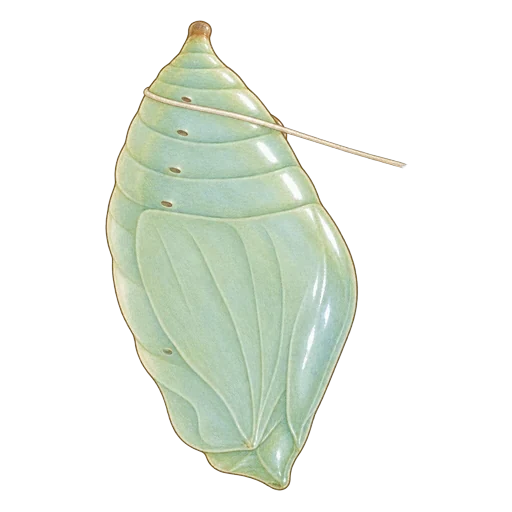
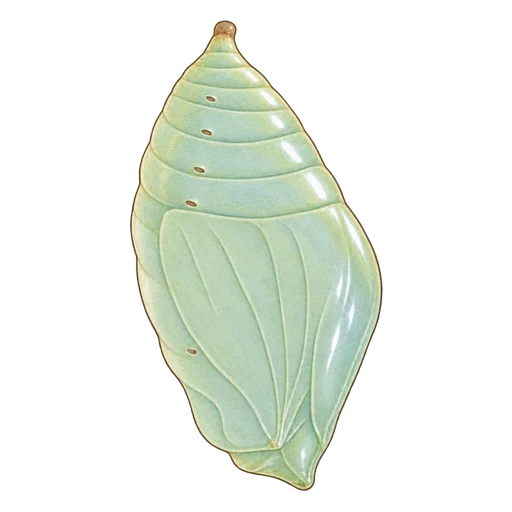
【デモ】小さい幼虫の絵、オオムラサキのさなぎの描き直し、幼虫・さなぎの動き

diff --git a/demo/index.html b/demo/index.html
@@ -854,7 +854,7 @@ const QS = new URLSearchParams(location.search);
 
 /* バージョンとこうしん情報：公開するたびに番号を上げる（ふだんは +0.0.1、大きなこうしんは +0.1） */
 const GAME_VER = '0.16.0';
-const BUILD = '20261108-1030';   // 公開するたびに tools/bump.sh が日時を書きこむ（version.json と同じ値）
+const BUILD = '20261108-1053';   // 公開するたびに tools/bump.sh が日時を書きこむ（version.json と同じ値）
 const CHANGELOG = [
   {v:'0.16.0', date:'2026-11-08', items:[
     '虫ずもうが、赤間の町の切りかぶの上でたたかうようになった！ 虫どうしが向かい合って、相手にぶつかっていくよ',
@@ -863,6 +863,7 @@ const CHANGELOG = [
     'ピンチになると、そだてた日々を思い出して、力がもどることがあるよ',
     'きりふきは、指をはなしたら、すぐに水が止まるようにした',
     'クワガタやキンカブト、チョウの幼虫が、絵になった！ バッタ・カマキリ・スズムシの子どもと、さなぎもぜんぶ絵になった。チョウのさなぎは、くきや葉にとまっているよ',
+    '幼虫やさなぎも動くようになった！ 脚や触角、頭を動かしたり、息をしたり、いもむしは体をのびちぢみさせたりするよ。アゲハのなかまの小さい幼虫は、鳥のフンそっくり',
   ]},
   {v:'0.15.0', date:'2026-11-07', items:[
     '道具のつかいかたがかわった！ 道具をえらんで、ケースの中をさわると、さわったところで使えるよ',
@@ -1670,14 +1671,14 @@ const BUG_IMG = {
   ookuwa: {adult:'ookuwa_adult_genki', larva:'ookuwa_larva_genki', pupa:'ookuwa_pupa'},
   kamakiri: {adult:'kamakiri_adult_genki', larva:'kamakiri_larva_genki'},
   monshiro: {adult:'monshiro_adult_genki', larva:'monshiro_larva_genki', pupa:'monshiro_pupa'},
-  ageha: {adult:'ageha_adult_genki', larva:'ageha_larva_genki', pupa:'ageha_pupa'},
-  karasu: {adult:'karasu_adult_genki', larva:'karasu_larva_genki', pupa:'karasu_pupa'},
+  ageha: {adult:'ageha_adult_genki', larva:'ageha_larva_genki', larva0:'ageha_larva0_genki', pupa:'ageha_pupa'},
+  karasu: {adult:'karasu_adult_genki', larva:'karasu_larva_genki', larva0:'karasu_larva0_genki', pupa:'karasu_pupa'},
   oomurasaki: {adult:'oomurasaki_adult_genki', larva:'oomurasaki_larva_genki', pupa:'oomurasaki_pupa'},
   genji: {adult:'genji_adult_genki'},
   abura: {adult:'abura_adult_genki'},
 };
 /* 1枚絵を切り分けて関節で動かす虫（tools/art_cut.py の出力）。座標は 512px の絵のまま。虫を足すときは tools/art_cut.py の RIGS に足して、出力をここへ */
-const ART_RIG = {"kabuto_larva":{"drop":0,"hop":0,"parts":{"tail":{"b":[276,45,215,286],"pv":[295,135],"kind":"tail"},"front":{"b":[26,267,249,158],"pv":[105,295],"kind":"front"},"leg1":{"b":[94,377,48,85],"pv":[122,390],"kind":"leg","ph":0,"parent":"front"},"leg2":{"b":[153,397,45,75],"pv":[175,408],"kind":"leg","ph":2,"parent":"front"},"leg3":{"b":[201,401,40,70],"pv":[220,412],"kind":"leg","ph":4,"parent":"front"},"head":{"b":[231,315,107,110],"pv":[250,372],"kind":"head","parent":"front"},"chew":{"b":[285,387,61,50],"pv":[298,405],"kind":"chew","parent":"head"}}},"kabuto_pupa":{"drop":0,"hop":0,"parts":{"tail":{"b":[20,162,138,222],"pv":[135,270],"kind":"tail"}}},"kokuwa_adult":{"drop":0,"hop":0,"parts":{"legF3":{"b":[20,280,61,45],"pv":[68,292],"kind":"leg","ph":3},"legF1":{"b":[317,293,64,46],"pv":[328,302],"kind":"leg","ph":3},"leg3":{"b":[42,287,136,61],"pv":[160,304],"kind":"leg","ph":0},"leg2":{"b":[159,287,109,63],"pv":[250,304],"kind":"leg","ph":3},"leg1":{"b":[267,285,105,66],"pv":[285,304],"kind":"leg","ph":0},"leg0":{"b":[335,281,155,65],"pv":[352,298],"kind":"leg","ph":3},"ant":{"b":[390,262,98,40],"pv":[400,272],"kind":"ant"},"antF":{"b":[408,161,83,54],"pv":[416,210],"kind":"ant","ph":1.3},"mandU":{"b":[400,207,79,46],"pv":[412,228],"kind":"mand","sgn":-1},"mandL":{"b":[400,247,79,36],"pv":[412,264],"kind":"mand","sgn":1}}},"suzumushi_adult":{"drop":0,"hop":0,"parts":{"leg3":{"b":[232,293,96,99],"pv":[312,308],"kind":"leg","ph":0},"leg2":{"b":[335,297,61,87],"pv":[355,308],"kind":"leg","ph":3},"leg1":{"b":[380,285,76,74],"pv":[392,296],"kind":"leg","ph":0},"ant":{"b":[62,46,381,222],"pv":[428,264],"kind":"ant","amp":0.45},"antF":{"b":[160,249,331,216],"pv":[430,266],"kind":"ant","ph":1.3,"amp":0.45}}},"shoryo_adult":{"drop":0,"hop":1,"parts":{"legF":{"b":[203,297,41,47],"pv":[232,302],"kind":"leg","ph":3},"leg3":{"b":[235,285,63,74],"pv":[285,293],"kind":"leg","ph":0},"leg2":{"b":[300,273,41,88],"pv":[325,283],"kind":"leg","ph":3},"leg1":{"b":[350,257,58,102],"pv":[368,272],"kind":"leg","ph":0},"ant":{"b":[443,153,48,38],"pv":[447,186],"kind":"ant"}}},"tonosama_adult":{"drop":0,"hop":1,"parts":{"leg4":{"b":[202,267,89,96],"pv":[275,280],"kind":"leg","ph":0},"leg3":{"b":[283,277,58,89],"pv":[325,288],"kind":"leg","ph":3},"legF":{"b":[400,278,59,68],"pv":[412,285],"kind":"leg","ph":3},"leg1":{"b":[360,265,67,97],"pv":[378,277],"kind":"leg","ph":0},"ant":{"b":[428,168,63,68],"pv":[437,225],"kind":"ant"}}},"kinkabuto_adult":{"drop":0,"hop":0,"parts":{"head":{"b":[347,103,144,224],"pv":[352,265],"kind":"head","amp":0.5},"ant":{"b":[378,269,67,31],"pv":[385,288],"kind":"ant","parent":"head"},"leg0":{"b":[20,353,85,55],"pv":[88,356],"kind":"leg","ph":3},"leg1":{"b":[99,353,62,49],"pv":[150,356],"kind":"leg","ph":0},"leg2":{"b":[168,329,85,79],"pv":[238,332],"kind":"leg","ph":3},"leg3":{"b":[257,325,85,76],"pv":[273,328],"kind":"leg","ph":0},"leg4":{"b":[287,320,147,87],"pv":[325,323],"kind":"leg","ph":3}}},"nokogiri_adult":{"drop":0,"hop":0,"parts":{"mandU":{"b":[342,162,139,71],"pv":[350,215],"kind":"mand","sgn":-1},"mandL":{"b":[341,219,150,78],"pv":[350,258],"kind":"mand","sgn":1},"ant":{"b":[290,176,40,45],"pv":[303,212],"kind":"ant"},"antN":{"b":[335,261,66,38],"pv":[340,272],"kind":"ant","ph":1.3},"leg0":{"b":[20,314,46,34],"pv":[55,316],"kind":"leg","ph":3},"leg1":{"b":[49,316,50,33],"pv":[87,319],"kind":"leg","ph":0},"leg2":{"b":[144,317,53,31],"pv":[186,320],"kind":"leg","ph":3},"leg3":{"b":[214,316,43,30],"pv":[221,319],"kind":"leg","ph":0},"leg4":{"b":[255,309,67,40],"pv":[271,312],"kind":"leg","ph":3},"leg5":{"b":[313,299,74,50],"pv":[325,302],"kind":"leg","ph":0}}},"hirata_adult":{"drop":0,"hop":0,"parts":{"mandU":{"b":[358,208,133,43],"pv":[365,232],"kind":"mand","sgn":-1},"mandL":{"b":[356,254,134,37],"pv":[362,268],"kind":"mand","sgn":1},"ant":{"b":[359,179,70,50],"pv":[368,218],"kind":"ant"},"antN":{"b":[352,272,58,39],"pv":[358,282],"kind":"ant","ph":1.3},"leg0":{"b":[20,293,47,33],"pv":[57,296],"kind":"leg","ph":3},"leg1":{"b":[41,294,53,39],"pv":[79,297],"kind":"leg","ph":0},"leg2":{"b":[89,294,92,32],"pv":[132,297],"kind":"leg","ph":3},"leg3":{"b":[159,294,51,39],"pv":[195,297],"kind":"leg","ph":0},"leg4":{"b":[261,301,39,25],"pv":[265,304],"kind":"leg","ph":3},"leg5":{"b":[298,307,64,25],"pv":[311,310],"kind":"leg","ph":0}}},"miyama_adult":{"drop":0,"hop":0,"parts":{"mandU":{"b":[346,183,140,63],"pv":[352,222],"kind":"mand","sgn":-1},"mandL":{"b":[346,237,145,40],"pv":[352,255],"kind":"mand","sgn":1},"ant":{"b":[345,136,74,78],"pv":[358,205],"kind":"ant"},"antN":{"b":[369,253,69,53],"pv":[378,262],"kind":"ant","ph":1.3},"leg0":{"b":[20,319,53,48],"pv":[63,322],"kind":"leg","ph":3},"leg1":{"b":[48,313,144,62],"pv":[155,316],"kind":"leg","ph":0},"leg2":{"b":[162,315,51,60],"pv":[203,318],"kind":"leg","ph":3},"leg3":{"b":[282,321,73,54],"pv":[288,324],"kind":"leg","ph":0},"leg4":{"b":[332,323,86,46],"pv":[341,326],"kind":"leg","ph":3}}},"ookuwa_adult":{"drop":0,"hop":0,"parts":{"mandU":{"b":[366,164,125,58],"pv":[375,195],"kind":"mand","sgn":-1},"mandL":{"b":[361,234,129,46],"pv":[368,255],"kind":"mand","sgn":1},"ant":{"b":[360,123,89,66],"pv":[372,178],"kind":"ant"},"antN":{"b":[355,256,95,64],"pv":[364,266],"kind":"ant","ph":1.3},"leg0":{"b":[20,315,86,71],"pv":[80,318],"kind":"leg","ph":3},"leg1":{"b":[90,320,62,53],"pv":[136,323],"kind":"leg","ph":0},"leg2":{"b":[158,297,87,92],"pv":[237,300],"kind":"leg","ph":3},"leg3":{"b":[292,327,79,60],"pv":[306,330],"kind":"leg","ph":0},"leg4":{"b":[344,327,74,47],"pv":[357,330],"kind":"leg","ph":3}}},"kamakiri_adult":{"drop":0,"hop":0,"parts":{"claw":{"b":[317,211,139,139],"pv":[362,222],"kind":"mand","sgn":1},"head":{"b":[373,190,45,48],"pv":[385,215],"kind":"head"},"ant":{"b":[392,128,92,76],"pv":[402,195],"kind":"ant","parent":"head"},"antN":{"b":[400,151,91,54],"pv":[408,195],"kind":"ant","ph":1.3,"parent":"head"},"leg0":{"b":[54,333,61,51],"pv":[107,336],"kind":"leg","ph":3},"leg1":{"b":[147,321,55,41],"pv":[190,324],"kind":"leg","ph":0},"leg2":{"b":[240,298,69,86],"pv":[278,301],"kind":"leg","ph":3},"leg3":{"b":[301,293,59,70],"pv":[306,296],"kind":"leg","ph":0}}},"monshiro_adult":{"drop":0,"hop":0,"parts":{"wing":{"b":[20,52,322,405],"pv":[320,345],"kind":"wing"},"ant":{"b":[362,206,113,122],"pv":[375,318],"kind":"ant"},"antN":{"b":[369,238,122,92],"pv":[380,318],"kind":"ant","ph":1.3},"leg0":{"b":[160,448,23,10],"pv":[170,451],"kind":"leg","ph":3},"leg1":{"b":[206,402,82,58],"pv":[246,405],"kind":"leg","ph":0},"leg2":{"b":[317,402,24,57],"pv":[327,405],"kind":"leg","ph":3},"leg3":{"b":[371,402,44,53],"pv":[376,405],"kind":"leg","ph":0}}},"ageha_adult":{"drop":0,"hop":0,"parts":{"wing":{"b":[20,36,349,418],"pv":[362,350],"kind":"wing"},"ant":{"b":[384,237,83,121],"pv":[398,348],"kind":"ant"},"antN":{"b":[390,262,101,97],"pv":[402,348],"kind":"ant","ph":1.3},"leg0":{"b":[140,448,40,24],"pv":[170,451],"kind":"leg","ph":3},"leg1":{"b":[221,431,53,43],"pv":[265,434],"kind":"leg","ph":0},"leg2":{"b":[266,425,43,44],"pv":[294,428],"kind":"leg","ph":3},"leg3":{"b":[295,425,40,50],"pv":[321,428],"kind":"leg","ph":0},"leg4":{"b":[355,425,21,42],"pv":[359,428],"kind":"leg","ph":3},"leg5":{"b":[362,425,45,50],"pv":[373,428],"kind":"leg","ph":0},"leg6":{"b":[401,425,37,44],"pv":[406,428],"kind":"leg","ph":3}}},"karasu_adult":{"drop":0,"hop":0,"parts":{"wing":{"b":[20,45,339,411],"pv":[350,350],"kind":"wing"},"ant":{"b":[377,238,89,117],"pv":[388,345],"kind":"ant"},"antN":{"b":[382,258,109,99],"pv":[392,345],"kind":"ant","ph":1.3},"leg0":{"b":[165,447,34,18],"pv":[189,450],"kind":"leg","ph":3},"leg1":{"b":[236,433,39,33],"pv":[268,436],"kind":"leg","ph":0},"leg2":{"b":[304,425,19,41],"pv":[316,428],"kind":"leg","ph":3},"leg3":{"b":[366,425,39,39],"pv":[371,428],"kind":"leg","ph":0},"leg4":{"b":[395,425,47,37],"pv":[400,428],"kind":"leg","ph":3}}},"oomurasaki_adult":{"drop":0,"hop":0,"parts":{"wing":{"b":[20,60,353,375],"pv":[335,335],"kind":"wing"},"ant":{"b":[369,205,91,133],"pv":[382,328],"kind":"ant"},"antN":{"b":[379,244,112,96],"pv":[388,328],"kind":"ant","ph":1.3},"leg0":{"b":[168,423,42,29],"pv":[199,426],"kind":"leg","ph":3},"leg1":{"b":[246,409,27,43],"pv":[262,412],"kind":"leg","ph":0},"leg2":{"b":[306,409,20,25],"pv":[308,412],"kind":"leg","ph":3},"leg3":{"b":[335,409,39,36],"pv":[342,412],"kind":"leg","ph":0},"leg4":{"b":[370,409,25,16],"pv":[375,412],"kind":"leg","ph":3}}}};
+const ART_RIG = {"kabuto_larva":{"drop":0,"hop":0,"parts":{"tail":{"b":[276,45,215,286],"pv":[295,135],"kind":"tail"},"front":{"b":[26,267,249,158],"pv":[105,295],"kind":"front"},"leg1":{"b":[94,377,48,85],"pv":[122,390],"kind":"leg","ph":0,"parent":"front"},"leg2":{"b":[153,397,45,75],"pv":[175,408],"kind":"leg","ph":2,"parent":"front"},"leg3":{"b":[201,401,40,70],"pv":[220,412],"kind":"leg","ph":4,"parent":"front"},"head":{"b":[231,315,107,110],"pv":[250,372],"kind":"head","parent":"front"},"chew":{"b":[285,387,61,50],"pv":[298,405],"kind":"chew","parent":"head"}}},"kabuto_pupa":{"drop":0,"hop":0,"parts":{"tail":{"b":[20,162,138,222],"pv":[135,270],"kind":"tail"}}},"kokuwa_adult":{"drop":0,"hop":0,"parts":{"legF3":{"b":[20,280,61,45],"pv":[68,292],"kind":"leg","ph":3},"legF1":{"b":[317,293,64,46],"pv":[328,302],"kind":"leg","ph":3},"leg3":{"b":[42,287,136,61],"pv":[160,304],"kind":"leg","ph":0},"leg2":{"b":[159,287,109,63],"pv":[250,304],"kind":"leg","ph":3},"leg1":{"b":[267,285,105,66],"pv":[285,304],"kind":"leg","ph":0},"leg0":{"b":[335,281,155,65],"pv":[352,298],"kind":"leg","ph":3},"ant":{"b":[390,262,98,40],"pv":[400,272],"kind":"ant"},"antF":{"b":[408,161,83,54],"pv":[416,210],"kind":"ant","ph":1.3},"mandU":{"b":[400,207,79,46],"pv":[412,228],"kind":"mand","sgn":-1},"mandL":{"b":[400,247,79,36],"pv":[412,264],"kind":"mand","sgn":1}}},"suzumushi_adult":{"drop":0,"hop":0,"parts":{"leg3":{"b":[232,293,96,99],"pv":[312,308],"kind":"leg","ph":0},"leg2":{"b":[335,297,61,87],"pv":[355,308],"kind":"leg","ph":3},"leg1":{"b":[380,285,76,74],"pv":[392,296],"kind":"leg","ph":0},"ant":{"b":[62,46,381,222],"pv":[428,264],"kind":"ant","amp":0.45},"antF":{"b":[160,249,331,216],"pv":[430,266],"kind":"ant","ph":1.3,"amp":0.45}}},"shoryo_adult":{"drop":0,"hop":1,"parts":{"legF":{"b":[203,297,41,47],"pv":[232,302],"kind":"leg","ph":3},"leg3":{"b":[235,285,63,74],"pv":[285,293],"kind":"leg","ph":0},"leg2":{"b":[300,273,41,88],"pv":[325,283],"kind":"leg","ph":3},"leg1":{"b":[350,257,58,102],"pv":[368,272],"kind":"leg","ph":0},"ant":{"b":[443,153,48,38],"pv":[447,186],"kind":"ant"}}},"tonosama_adult":{"drop":0,"hop":1,"parts":{"leg4":{"b":[202,267,89,96],"pv":[275,280],"kind":"leg","ph":0},"leg3":{"b":[283,277,58,89],"pv":[325,288],"kind":"leg","ph":3},"legF":{"b":[400,278,59,68],"pv":[412,285],"kind":"leg","ph":3},"leg1":{"b":[360,265,67,97],"pv":[378,277],"kind":"leg","ph":0},"ant":{"b":[428,168,63,68],"pv":[437,225],"kind":"ant"}}},"kinkabuto_adult":{"drop":0,"hop":0,"parts":{"head":{"b":[347,103,144,224],"pv":[352,265],"kind":"head","amp":0.5},"ant":{"b":[378,269,67,31],"pv":[385,288],"kind":"ant","parent":"head"},"leg0":{"b":[20,353,85,55],"pv":[88,356],"kind":"leg","ph":3},"leg1":{"b":[99,353,62,49],"pv":[150,356],"kind":"leg","ph":0},"leg2":{"b":[168,329,85,79],"pv":[238,332],"kind":"leg","ph":3},"leg3":{"b":[257,325,85,76],"pv":[273,328],"kind":"leg","ph":0},"leg4":{"b":[287,320,147,87],"pv":[325,323],"kind":"leg","ph":3}}},"nokogiri_adult":{"drop":0,"hop":0,"parts":{"mandU":{"b":[342,162,139,71],"pv":[350,215],"kind":"mand","sgn":-1},"mandL":{"b":[341,219,150,78],"pv":[350,258],"kind":"mand","sgn":1},"ant":{"b":[290,176,40,45],"pv":[303,212],"kind":"ant"},"antN":{"b":[335,261,66,38],"pv":[340,272],"kind":"ant","ph":1.3},"leg0":{"b":[20,314,46,34],"pv":[55,316],"kind":"leg","ph":3},"leg1":{"b":[49,316,50,33],"pv":[87,319],"kind":"leg","ph":0},"leg2":{"b":[144,317,53,31],"pv":[186,320],"kind":"leg","ph":3},"leg3":{"b":[214,316,43,30],"pv":[221,319],"kind":"leg","ph":0},"leg4":{"b":[255,309,67,40],"pv":[271,312],"kind":"leg","ph":3},"leg5":{"b":[313,299,74,50],"pv":[325,302],"kind":"leg","ph":0}}},"hirata_adult":{"drop":0,"hop":0,"parts":{"mandU":{"b":[358,208,133,43],"pv":[365,232],"kind":"mand","sgn":-1},"mandL":{"b":[356,254,134,37],"pv":[362,268],"kind":"mand","sgn":1},"ant":{"b":[359,179,70,50],"pv":[368,218],"kind":"ant"},"antN":{"b":[352,272,58,39],"pv":[358,282],"kind":"ant","ph":1.3},"leg0":{"b":[20,293,47,33],"pv":[57,296],"kind":"leg","ph":3},"leg1":{"b":[41,294,53,39],"pv":[79,297],"kind":"leg","ph":0},"leg2":{"b":[89,294,92,32],"pv":[132,297],"kind":"leg","ph":3},"leg3":{"b":[159,294,51,39],"pv":[195,297],"kind":"leg","ph":0},"leg4":{"b":[261,301,39,25],"pv":[265,304],"kind":"leg","ph":3},"leg5":{"b":[298,307,64,25],"pv":[311,310],"kind":"leg","ph":0}}},"miyama_adult":{"drop":0,"hop":0,"parts":{"mandU":{"b":[346,183,140,63],"pv":[352,222],"kind":"mand","sgn":-1},"mandL":{"b":[346,237,145,40],"pv":[352,255],"kind":"mand","sgn":1},"ant":{"b":[345,136,74,78],"pv":[358,205],"kind":"ant"},"antN":{"b":[369,253,69,53],"pv":[378,262],"kind":"ant","ph":1.3},"leg0":{"b":[20,319,53,48],"pv":[63,322],"kind":"leg","ph":3},"leg1":{"b":[48,313,144,62],"pv":[155,316],"kind":"leg","ph":0},"leg2":{"b":[162,315,51,60],"pv":[203,318],"kind":"leg","ph":3},"leg3":{"b":[282,321,73,54],"pv":[288,324],"kind":"leg","ph":0},"leg4":{"b":[332,323,86,46],"pv":[341,326],"kind":"leg","ph":3}}},"ookuwa_adult":{"drop":0,"hop":0,"parts":{"mandU":{"b":[366,164,125,58],"pv":[375,195],"kind":"mand","sgn":-1},"mandL":{"b":[361,234,129,46],"pv":[368,255],"kind":"mand","sgn":1},"ant":{"b":[360,123,89,66],"pv":[372,178],"kind":"ant"},"antN":{"b":[355,256,95,64],"pv":[364,266],"kind":"ant","ph":1.3},"leg0":{"b":[20,315,86,71],"pv":[80,318],"kind":"leg","ph":3},"leg1":{"b":[90,320,62,53],"pv":[136,323],"kind":"leg","ph":0},"leg2":{"b":[158,297,87,92],"pv":[237,300],"kind":"leg","ph":3},"leg3":{"b":[292,327,79,60],"pv":[306,330],"kind":"leg","ph":0},"leg4":{"b":[344,327,74,47],"pv":[357,330],"kind":"leg","ph":3}}},"kamakiri_adult":{"drop":0,"hop":0,"parts":{"claw":{"b":[317,211,139,139],"pv":[362,222],"kind":"mand","sgn":1},"head":{"b":[373,190,45,48],"pv":[385,215],"kind":"head"},"ant":{"b":[392,128,92,76],"pv":[402,195],"kind":"ant","parent":"head"},"antN":{"b":[400,151,91,54],"pv":[408,195],"kind":"ant","ph":1.3,"parent":"head"},"leg0":{"b":[54,333,61,51],"pv":[107,336],"kind":"leg","ph":3},"leg1":{"b":[147,321,55,41],"pv":[190,324],"kind":"leg","ph":0},"leg2":{"b":[240,298,69,86],"pv":[278,301],"kind":"leg","ph":3},"leg3":{"b":[301,293,59,70],"pv":[306,296],"kind":"leg","ph":0}}},"monshiro_adult":{"drop":0,"hop":0,"parts":{"wing":{"b":[20,52,322,405],"pv":[320,345],"kind":"wing"},"ant":{"b":[362,206,113,122],"pv":[375,318],"kind":"ant"},"antN":{"b":[369,238,122,92],"pv":[380,318],"kind":"ant","ph":1.3},"leg0":{"b":[160,448,23,10],"pv":[170,451],"kind":"leg","ph":3},"leg1":{"b":[206,402,82,58],"pv":[246,405],"kind":"leg","ph":0},"leg2":{"b":[317,402,24,57],"pv":[327,405],"kind":"leg","ph":3},"leg3":{"b":[371,402,44,53],"pv":[376,405],"kind":"leg","ph":0}}},"ageha_adult":{"drop":0,"hop":0,"parts":{"wing":{"b":[20,36,349,418],"pv":[362,350],"kind":"wing"},"ant":{"b":[384,237,83,121],"pv":[398,348],"kind":"ant"},"antN":{"b":[390,262,101,97],"pv":[402,348],"kind":"ant","ph":1.3},"leg0":{"b":[140,448,40,24],"pv":[170,451],"kind":"leg","ph":3},"leg1":{"b":[221,431,53,43],"pv":[265,434],"kind":"leg","ph":0},"leg2":{"b":[266,425,43,44],"pv":[294,428],"kind":"leg","ph":3},"leg3":{"b":[295,425,40,50],"pv":[321,428],"kind":"leg","ph":0},"leg4":{"b":[355,425,21,42],"pv":[359,428],"kind":"leg","ph":3},"leg5":{"b":[362,425,45,50],"pv":[373,428],"kind":"leg","ph":0},"leg6":{"b":[401,425,37,44],"pv":[406,428],"kind":"leg","ph":3}}},"karasu_adult":{"drop":0,"hop":0,"parts":{"wing":{"b":[20,45,339,411],"pv":[350,350],"kind":"wing"},"ant":{"b":[377,238,89,117],"pv":[388,345],"kind":"ant"},"antN":{"b":[382,258,109,99],"pv":[392,345],"kind":"ant","ph":1.3},"leg0":{"b":[165,447,34,18],"pv":[189,450],"kind":"leg","ph":3},"leg1":{"b":[236,433,39,33],"pv":[268,436],"kind":"leg","ph":0},"leg2":{"b":[304,425,19,41],"pv":[316,428],"kind":"leg","ph":3},"leg3":{"b":[366,425,39,39],"pv":[371,428],"kind":"leg","ph":0},"leg4":{"b":[395,425,47,37],"pv":[400,428],"kind":"leg","ph":3}}},"oomurasaki_adult":{"drop":0,"hop":0,"parts":{"wing":{"b":[20,60,353,375],"pv":[335,335],"kind":"wing"},"ant":{"b":[369,205,91,133],"pv":[382,328],"kind":"ant"},"antN":{"b":[379,244,112,96],"pv":[388,328],"kind":"ant","ph":1.3},"leg0":{"b":[168,423,42,29],"pv":[199,426],"kind":"leg","ph":3},"leg1":{"b":[246,409,27,43],"pv":[262,412],"kind":"leg","ph":0},"leg2":{"b":[306,409,20,25],"pv":[308,412],"kind":"leg","ph":3},"leg3":{"b":[335,409,39,36],"pv":[342,412],"kind":"leg","ph":0},"leg4":{"b":[370,409,25,16],"pv":[375,412],"kind":"leg","ph":3}}},"kinkabuto_larva":{"drop":0,"hop":0,"wob":1,"parts":{"head":{"b":[357,259,134,153],"pv":[372,330],"kind":"head","amp":0.6},"leg0":{"b":[250,292,46,56],"pv":[277,295],"kind":"leg","ph":3},"leg1":{"b":[287,332,28,65],"pv":[290,334],"kind":"leg","ph":0},"leg2":{"b":[333,349,34,73],"pv":[349,352],"kind":"leg","ph":3}}},"kokuwa_larva":{"drop":0,"hop":0,"wob":1,"parts":{"head":{"b":[355,289,136,152],"pv":[372,350],"kind":"head","amp":0.6},"leg0":{"b":[175,409,49,52],"pv":[209,412],"kind":"leg","ph":3},"leg1":{"b":[249,409,35,70],"pv":[268,412],"kind":"leg","ph":0},"leg2":{"b":[313,409,45,69],"pv":[323,412],"kind":"leg","ph":3}}},"nokogiri_larva":{"drop":0,"hop":0,"wob":1,"parts":{"head":{"b":[255,311,125,121],"pv":[272,360],"kind":"head","amp":0.6},"leg0":{"b":[106,417,30,46],"pv":[117,420],"kind":"leg","ph":3},"leg1":{"b":[166,417,36,55],"pv":[182,420],"kind":"leg","ph":0},"leg2":{"b":[201,417,61,51],"pv":[229,420],"kind":"leg","ph":3}}},"hirata_larva":{"drop":0,"hop":0,"wob":1,"parts":{"head":{"b":[375,232,116,137],"pv":[388,290],"kind":"head","amp":0.6},"leg0":{"b":[226,269,36,54],"pv":[244,272],"kind":"leg","ph":3},"leg1":{"b":[267,285,42,55],"pv":[286,286],"kind":"leg","ph":0},"leg2":{"b":[319,301,42,79],"pv":[338,304],"kind":"leg","ph":3}}},"miyama_larva":{"drop":0,"hop":0,"wob":1,"parts":{"head":{"b":[382,252,109,133],"pv":[395,310],"kind":"head","amp":0.6},"leg0":{"b":[252,297,43,22],"pv":[272,300],"kind":"leg","ph":3},"leg1":{"b":[287,331,33,42],"pv":[303,333],"kind":"leg","ph":0},"leg2":{"b":[344,335,29,51],"pv":[359,338],"kind":"leg","ph":3}}},"ookuwa_larva":{"drop":0,"hop":0,"wob":1,"parts":{"head":{"b":[377,292,114,127],"pv":[390,350],"kind":"head","amp":0.6},"leg0":{"b":[237,327,45,17],"pv":[257,330],"kind":"leg","ph":3},"leg1":{"b":[256,353,27,65],"pv":[276,354],"kind":"leg","ph":0},"leg2":{"b":[311,371,40,60],"pv":[334,374],"kind":"leg","ph":3},"leg3":{"b":[347,371,35,16],"pv":[364,374],"kind":"leg","ph":0}}},"shoryo_larva":{"drop":0,"hop":1,"parts":{"ant":{"b":[390,112,80,130],"pv":[400,235],"kind":"ant"},"antN":{"b":[395,144,96,98],"pv":[405,238],"kind":"ant","ph":1.3},"leg0":{"b":[20,335,58,61],"pv":[69,338],"kind":"leg","ph":3},"leg1":{"b":[66,335,108,48],"pv":[129,338],"kind":"leg","ph":0},"leg2":{"b":[165,334,52,63],"pv":[210,337],"kind":"leg","ph":3},"leg3":{"b":[208,334,35,50],"pv":[236,337],"kind":"leg","ph":0},"leg4":{"b":[265,334,29,65],"pv":[271,337],"kind":"leg","ph":3},"leg5":{"b":[322,334,58,60],"pv":[334,336],"kind":"leg","ph":0}}},"tonosama_larva":{"drop":0,"hop":1,"parts":{"ant":{"b":[396,144,70,79],"pv":[405,212],"kind":"ant"},"antN":{"b":[402,171,89,54],"pv":[410,215],"kind":"ant","ph":1.3},"leg0":{"b":[20,311,68,51],"pv":[77,314],"kind":"leg","ph":3},"leg1":{"b":[105,311,57,43],"pv":[150,314],"kind":"leg","ph":0},"leg2":{"b":[170,310,55,57],"pv":[216,313],"kind":"leg","ph":3},"leg3":{"b":[256,310,37,44],"pv":[270,313],"kind":"leg","ph":0},"leg4":{"b":[353,310,33,48],"pv":[367,313],"kind":"leg","ph":3},"leg5":{"b":[382,310,61,55],"pv":[389,313],"kind":"leg","ph":0}}},"kamakiri_larva":{"drop":0,"hop":0,"parts":{"ant":{"b":[399,74,76,107],"pv":[410,175],"kind":"ant"},"antN":{"b":[302,116,103,68],"pv":[398,175],"kind":"ant","ph":1.3},"leg0":{"b":[22,331,87,103],"pv":[102,334],"kind":"leg","ph":3},"leg1":{"b":[94,331,71,77],"pv":[154,334],"kind":"leg","ph":0},"leg2":{"b":[224,331,32,109],"pv":[236,334],"kind":"leg","ph":3},"leg3":{"b":[304,331,52,71],"pv":[308,334],"kind":"leg","ph":0},"leg4":{"b":[347,331,76,91],"pv":[352,334],"kind":"leg","ph":3}}},"suzumushi_larva":{"drop":0,"hop":0,"parts":{"ant":{"b":[92,59,331,197],"pv":[410,250],"kind":"ant","amp":0.45},"antN":{"b":[207,235,284,217],"pv":[418,262],"kind":"ant","ph":1.3,"amp":0.45},"leg0":{"b":[59,329,66,35],"pv":[113,332],"kind":"leg","ph":3},"leg1":{"b":[178,329,46,39],"pv":[213,332],"kind":"leg","ph":0},"leg2":{"b":[308,328,43,41],"pv":[317,331],"kind":"leg","ph":3},"leg3":{"b":[384,328,49,36],"pv":[392,331],"kind":"leg","ph":0}}},"monshiro_larva":{"drop":0,"hop":0,"inch":1,"parts":{}},"ageha_larva":{"drop":0,"hop":0,"inch":1,"parts":{}},"karasu_larva":{"drop":0,"hop":0,"inch":1,"parts":{}},"oomurasaki_larva":{"drop":0,"hop":0,"inch":1,"parts":{}},"ageha_larva0":{"drop":0,"hop":0,"inch":1,"parts":{}},"karasu_larva0":{"drop":0,"hop":0,"inch":1,"parts":{}},"kinkabuto_pupa":{"drop":0,"hop":0,"parts":{}},"kokuwa_pupa":{"drop":0,"hop":0,"parts":{}},"nokogiri_pupa":{"drop":0,"hop":0,"parts":{}},"hirata_pupa":{"drop":0,"hop":0,"parts":{}},"miyama_pupa":{"drop":0,"hop":0,"parts":{}},"ookuwa_pupa":{"drop":0,"hop":0,"parts":{}},"monshiro_pupa":{"drop":0,"hop":0,"parts":{}},"ageha_pupa":{"drop":0,"hop":0,"parts":{}},"karasu_pupa":{"drop":0,"hop":0,"parts":{}},"oomurasaki_pupa":{"drop":0,"hop":0,"parts":{}}};
 function artSVG(key){
   const R = ART_RIG[key], dir = `img/bugs/parts/${key}/`, kids = {};
   Object.entries(R.parts).forEach(([k, P])=> (kids[P.parent || ''] = kids[P.parent || ''] || []).push(k));
@@ -1689,7 +1690,7 @@ function artSVG(key){
 function artRun(el, key, ctl={}){
   const R = ART_RIG[key], g = {}; el.querySelectorAll('[data-a]').forEach(n=> g[n.dataset.a] = n);
   const parts = Object.entries(R.parts).map(([k, P])=> ({k, P, n:g[k], a:0, to:0, t:0}));
-  const isPupa = key.endsWith('_pupa'), isLarva = key.endsWith('_larva');
+  const isPupa = key.endsWith('_pupa'), isLarva = /_larva0?$/.test(key), still = !Object.values(R.parts).some(P=> P.kind === 'tail' || P.kind === 'front');   // still：体を曲げる部品がない虫は、さわると体ごとよじる
   Object.assign(ctl, {mood:ctl.mood || 'genki', act:null, actT:0, nextHop:performance.now() + 4000 + Math.random()*6000});
   ctl.start = (a, t=performance.now())=>{ ctl.act = R.hop ? 'hop' : a; ctl.actT = t; };
   const ease = t=> t < 0 ? 0 : t > 1 ? 1 : t*t*(3 - 2*t), rot = (n, d, [x, y])=> n.setAttribute('transform', `rotate(${d.toFixed(2)} ${x} ${y})`);
@@ -1715,6 +1716,7 @@ function artRun(el, key, ctl={}){
     let sx = 1, tilt = 0;
     if(R.inch && !sleep){ const w = Math.sin(sec*Math.PI*2/3.4); sx = 1 + w*.035; sy *= 1 - w*.025; }   // いもむし：のびちぢみ
     if(R.wob && !sleep) tilt = Math.sin(sec*Math.PI*2/4.6)*1.6;   // 地面の下の幼虫：ゆっくり体をゆする
+    if(still && ctl.act === 'threat') tilt += wig*(isPupa ? 5 : 3);
     g.root.setAttribute('transform', `translate(256 ${410 + y}) rotate(${tilt.toFixed(2)}) scale(${sx.toFixed(4)} ${sy.toFixed(4)}) translate(-256 -410)`);
     g.base.setAttribute('transform', ctl.sing && (sec % 1.7) < 1.15 ? `rotate(${(Math.sin(sec*48)*.5).toFixed(2)} 400 270)` : '');   // 鳴くとき、はねをふるわせる
     for(const q of parts){
@@ -1744,9 +1746,10 @@ function artRun(el, key, ctl={}){
 function svgBug(id, stage, o={}){
   const b = BUGS[id], cls = ['bug', o.rest ? 'rest' : '', o.sleep ? 'sleep' : '', o.cls||''].join(' ');
   let inner = '';
-  const img = (BUG_IMG[id] || {})[stage];
+  const young = stage === 'larva' && o.instar === 0 && (BUG_IMG[id] || {}).larva0, ak = young ? 'larva0' : stage;   // アゲハのなかまの小さい幼虫は、鳥のフンのような絵
+  const img = (BUG_IMG[id] || {})[ak];
   if(o.rig && stage === 'adult' && BUG_PARTS[id]) inner = `<g class="rig" transform="${rigFit(id)}">${rigSVG(id)}</g>`;   // ケースの中は、部品の絵で組み立てて動かす
-  else if(o.rig && ART_RIG[`${id}_${stage}`]) inner = `<g class="artRig" data-key="${id}_${stage}" transform="translate(50 50) scale(${stage === 'larva' && o.instar === 0 ? .7 : 1}) translate(-50 -50)">${artSVG(`${id}_${stage}`)}</g>`;
+  else if(o.rig && ART_RIG[`${id}_${ak}`]) inner = `<g class="artRig" data-key="${id}_${ak}" transform="translate(50 50) scale(${stage === 'larva' && o.instar === 0 ? .7 : 1}) translate(-50 -50)">${artSVG(`${id}_${ak}`)}</g>`;
   else if(img) inner = `<g transform="translate(50 50) scale(${stage === 'larva' && o.instar === 0 ? .7 : 1}) translate(-50 -50)"><image class="art" href="img/bugs/${img}.webp" width="100" height="100"/></g>`;   // 1回目の幼虫は小さく
   else if(stage === 'larva') inner = larvaSVG(id, b, o);
   else if(stage === 'pupa') inner = pupaSVG(id, b);
